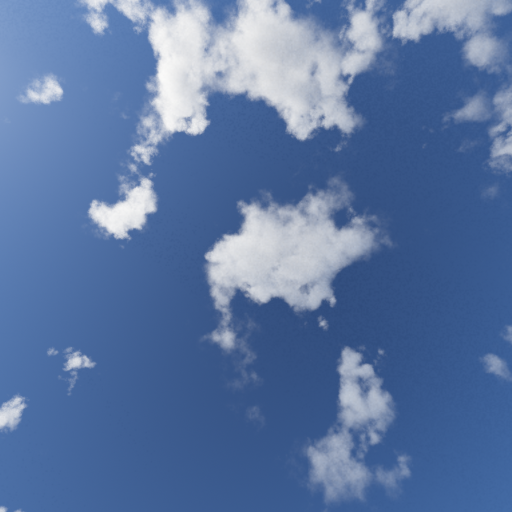
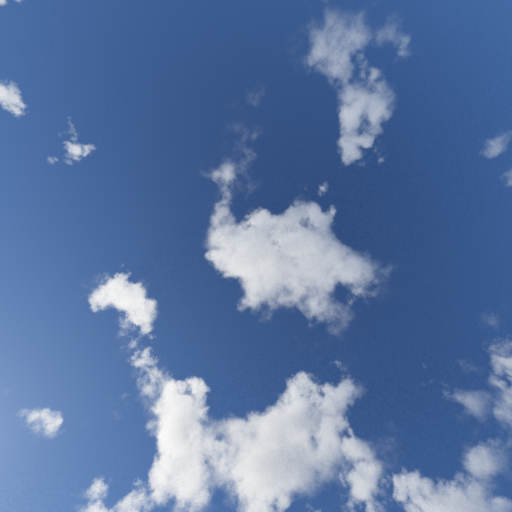
fixed sky box upside down images.

diff --git a/newton-4.00/applications/ndSandbox/toolbox/ndSkyBox.cpp b/newton-4.00/applications/ndSandbox/toolbox/ndSkyBox.cpp
@@ -102,11 +102,9 @@ ndSkyBox::~ndSkyBox()
 
 void ndSkyBox::Render(ndFloat32, ndDemoEntityManager* const scene, const ndMatrix&) const
 {
-return;
 	//glDepthMask(GL_FALSE);
 
 	ndDemoCamera* const camera = scene->GetCamera();
-	//glMatrix invViewModelProjectionTextureMatrix(camera->GetInvViewProjectionMatrix().Inverse4x4() * m_textureMatrix);
 	glMatrix invViewModelProjectionTextureMatrix(camera->GetInvProjectionMatrix() * camera->GetViewMatrix() * m_textureMatrix);
 	
 	glUseProgram(m_shader);
